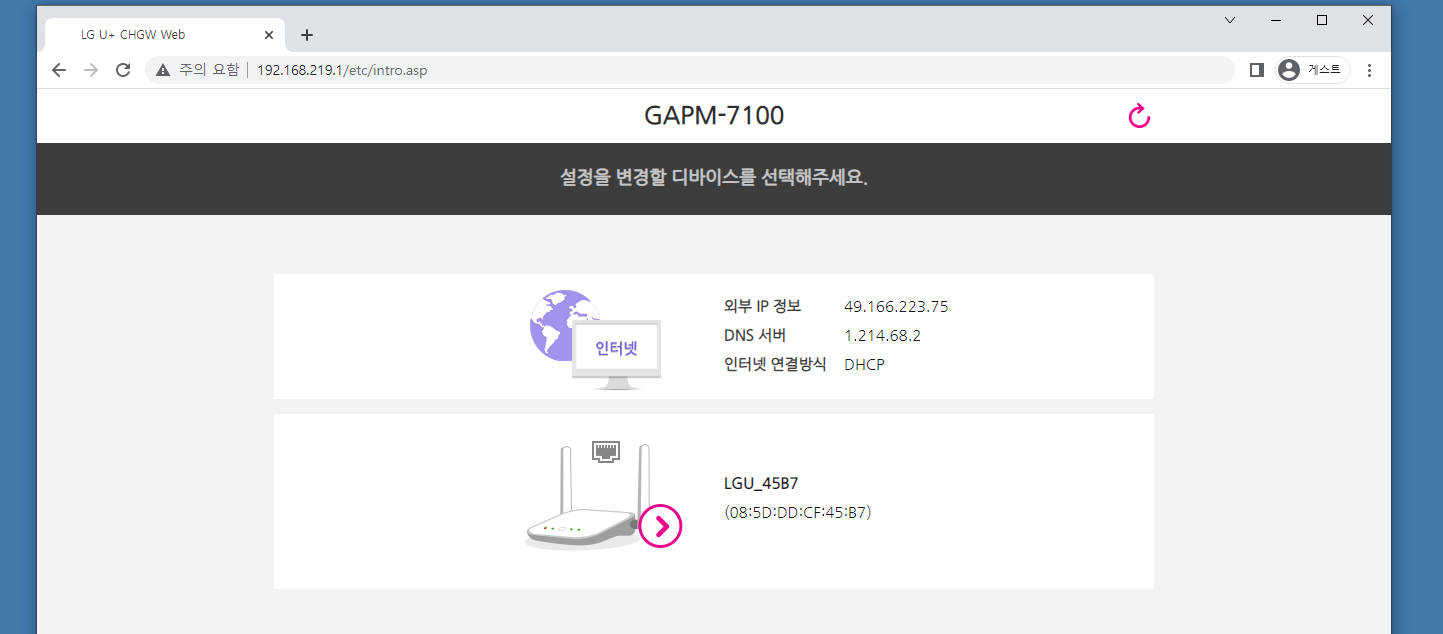
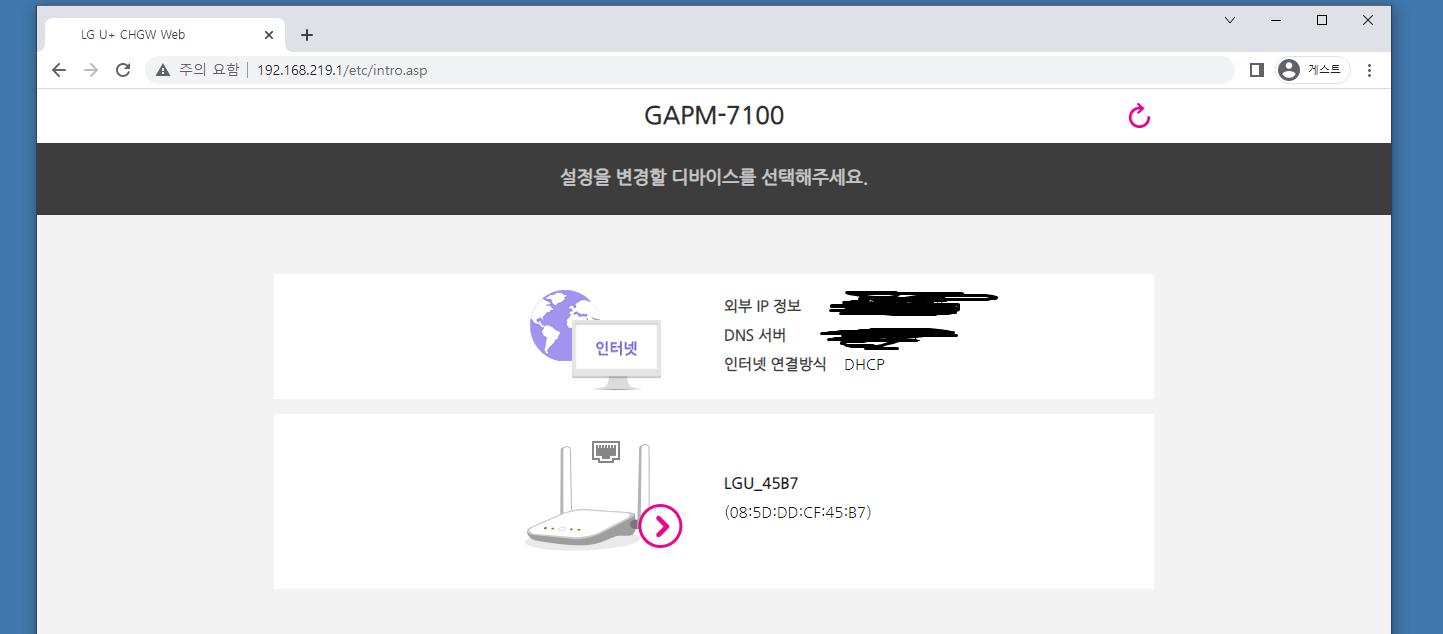
privacy depend

Changed region(s): [[0.5613, 0.4495, 0.6861, 0.5694]]

diff --git a/README.md b/README.md
@@ -26,7 +26,7 @@ Setup
 
 외부망이면.. 사용하는 공유기에서 포트포워딩 설정을 따로 해줘야합니다
 
-![LG U+ 공유기 설정 페이지](https://user-images.githubusercontent.com/67177785/188458677-763d56ce-822c-47f4-bf49-a2bec57fbce9.PNG)  
+![LG U+ 공유기 설정 페이지](https://user-images.githubusercontent.com/67177785/188460770-28001432-a756-4909-8efe-78743f995dbb.PNG)
 **[그림3] LG U+ 공유기 설정 페이지**
 
 통신사마다 설정방법이 조금씩 차이가 나지만 일반적으로 공유기 설정 페이지에 들어가 관리자 계정으로 로그인 후 설정할 수 있습니다
